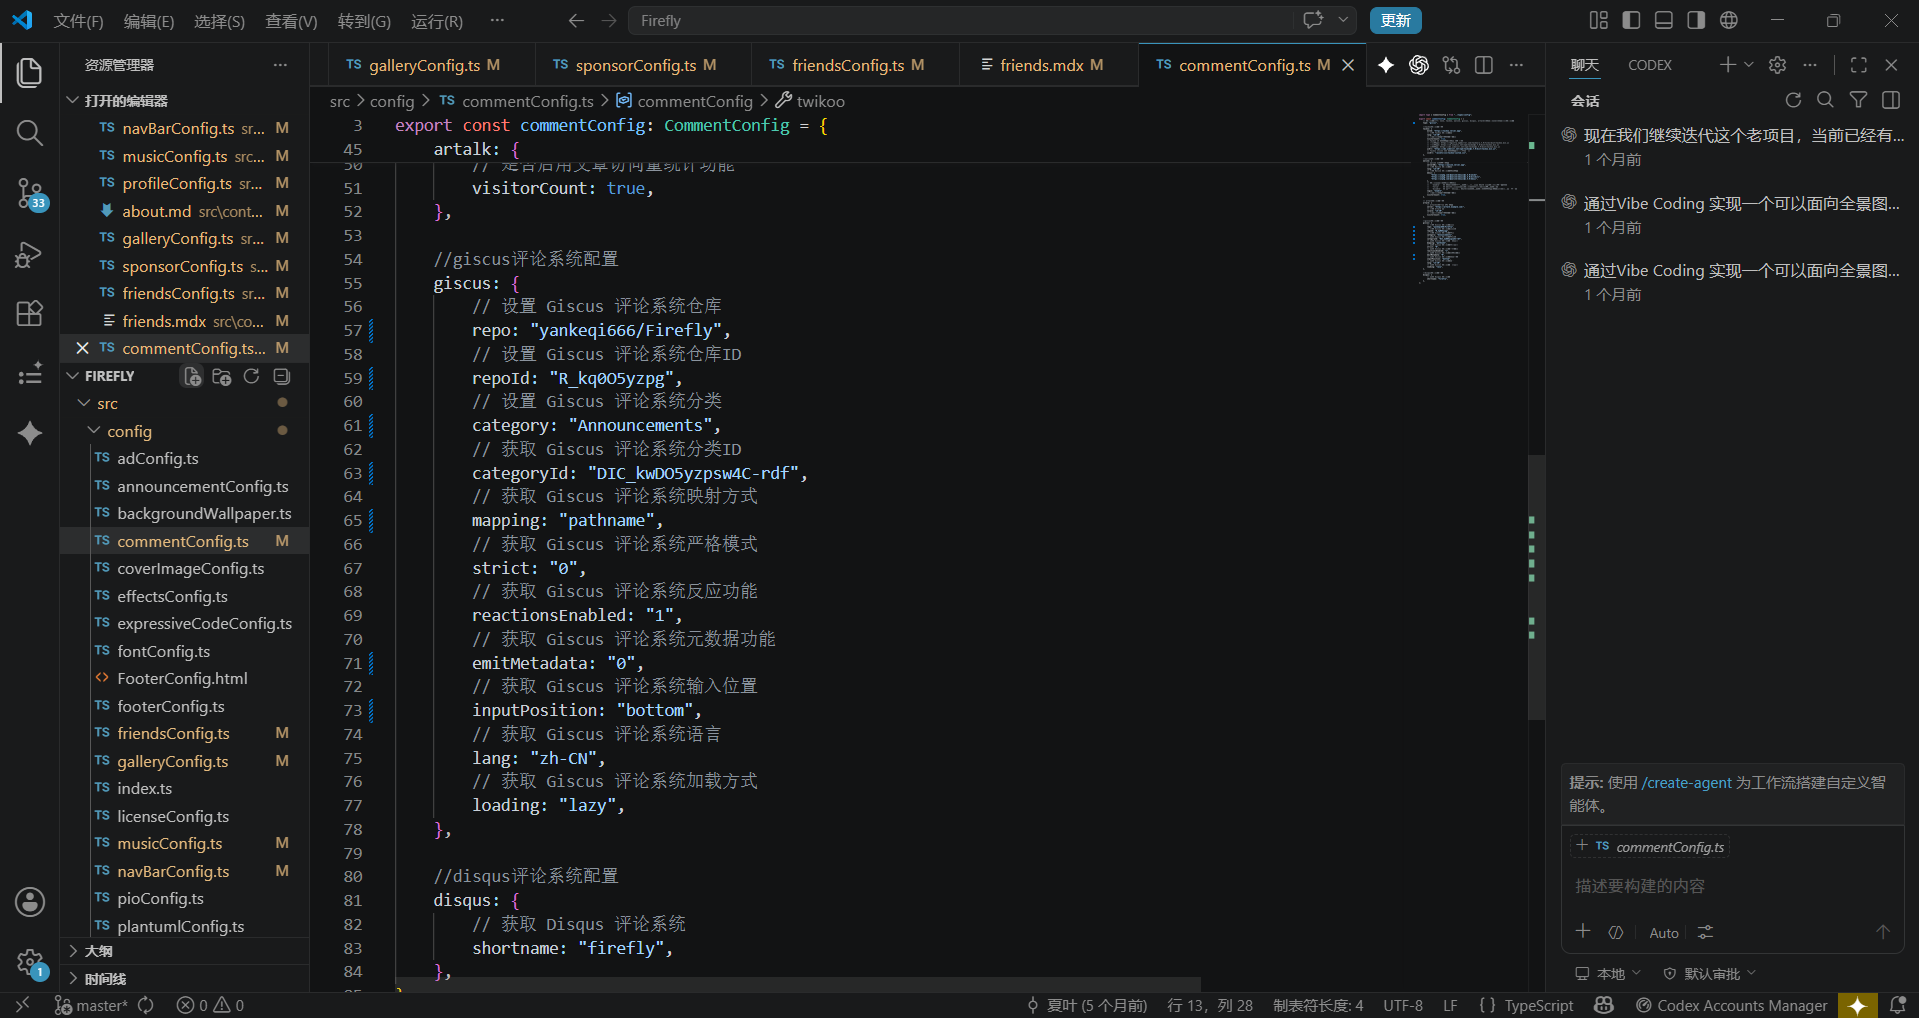
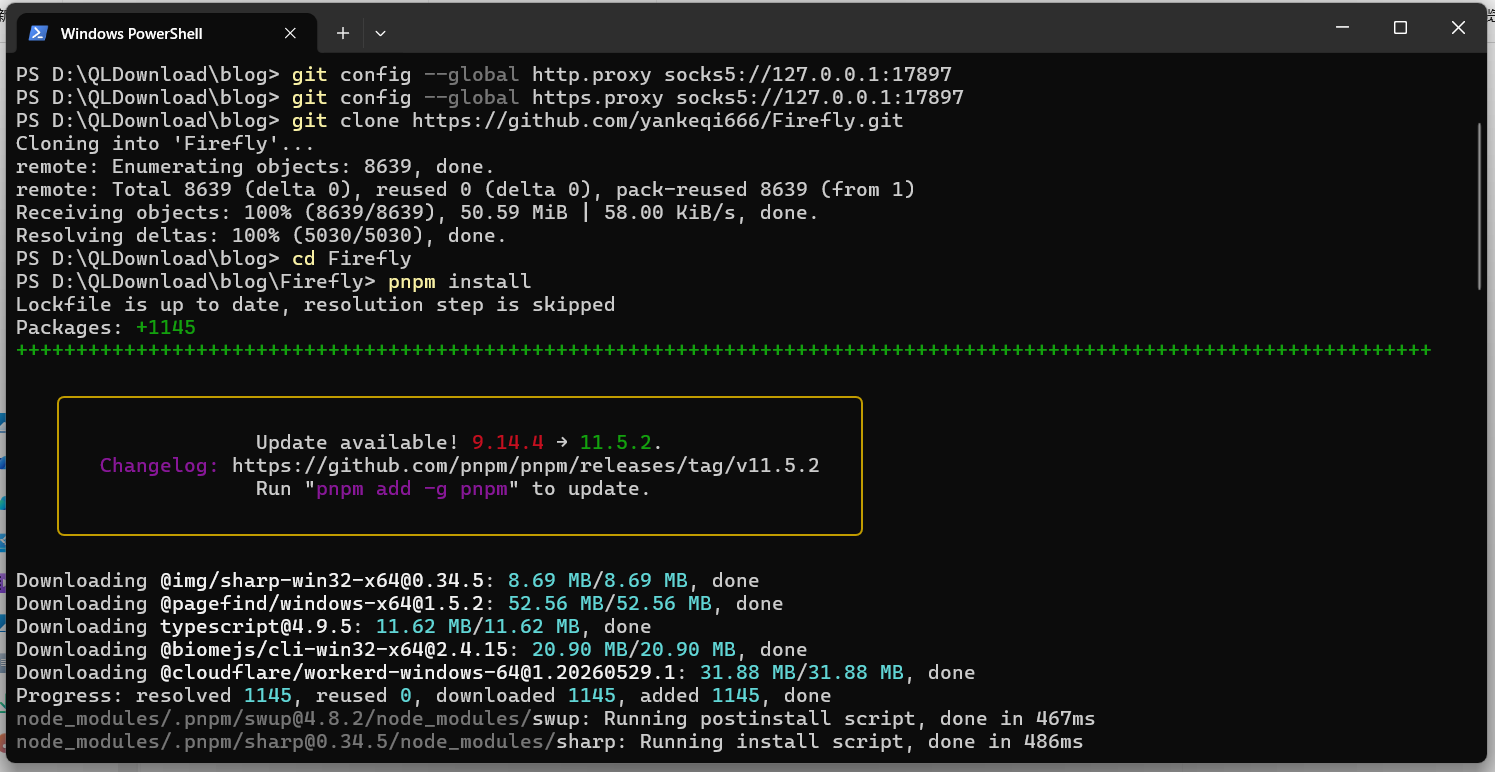
fix: swap step4 and step5 image filenames, update paths

Changed region(s): [[0.0, 0.0, 1.0, 1.0]]

diff --git a/src/content/posts/my-record/index.md b/src/content/posts/my-record/index.md
@@ -22,10 +22,10 @@ author: "Yan"
 ![步骤3：安装依赖与启动服务](/image/3.png)
 *图3：运行npm install安装依赖，npm run dev启动本地服务*
 
-![步骤4：Firefly主题配置](/image/5.png)
+![步骤4：Firefly主题配置](/image/4.png)
 *图4：修改Firefly主题配置文件，调整基础设置*
 
-![步骤5：添加Giscus评论系统](/image/4.png)
+![步骤5：添加Giscus评论系统](/image/5.png)
 *图5：配置Giscus评论，实现博客评论功能*
 
 ![步骤6：页面样式微调](/image/6.png)